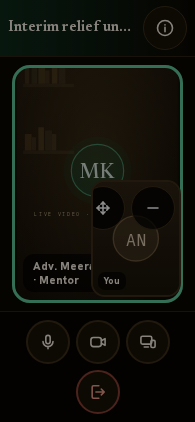
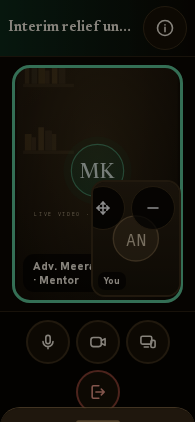
SAATHI-129: fix dark-theme destructive-button contrast in the C2 live-room reference
Stage-4 accessibility closure reproduced one real WCAG 2.1 AA 1.4.3 failure,
confirmed independently by axe-core 4.12.1 (rule color-contrast, impact
serious, 1 node `.terra`, state s35-leave-confirm, dark theme):

  .btn.terra hard-coded `color:#fff`. In dark theme `--terra` is the light
  tint #f2986a, so the "Leave the session" confirm button rendered
  #ffffff on #f2986a = 2.22:1 against a 4.5:1 requirement (14px/800 = normal text).

Fix mirrors the already-approved `--jade` / `--jade-ink` pattern:
  * tokens.css  — add `--terra-ink`: #fff (light, unchanged rendering) and
                  #211609 (dark; an existing approved palette value, the light
                  theme's `--ink`).
  * reference.css — `.btn.terra` now uses `color:var(--terra-ink)`.

Result: light 6.13:1 (AA, unchanged), dark 8.01:1 (AAA). Zero WCAG axe
violations remain across 10 live-room states x 2 themes.

Revalidated after the fix, all from a clean detached worktree:
  * 1,968-row package regression: 1968/1968 PASS; MEASURED_GEOMETRY_RESULTS.json
    regenerates BYTE-IDENTICAL to the previous commit (no geometry change).
  * S-35 addendum: 12/12 pairs x 12 assertions, 72/72 adverse-state rows.
  * 81-case negative matrix: 81/81 PASS (artifacts byte-identical).
  * 82-state set equality: 18/18 PASS.
  * Zero console errors/warnings, page errors, failed requests, storage writes, cookies.
  * Frontend typecheck / lint / vitest (432 passed, 1 skipped) / build: RC 0.
[…]

Changed region(s): [[0.0, 0.955, 1.0, 1.0]]

diff --git a/docs/design/tutoring/option_c2_reference_v1/reference/tokens.css b/docs/design/tutoring/option_c2_reference_v1/reference/tokens.css
@@ -12,7 +12,7 @@
   --bg:#fbf7f0;--card:#fff;--soft:#f4ece0;--ink:#211609;--ink2:#4d4234;--mut:#6f6248;
   --line:#ead9c2;--line2:#d3bd9e;
   --jade:#0f6b47;--jade-ink:#fff;--jadeq:#e3f1e9;
-  --terra:#a8410c;--terraq:#fdeadd;
+  --terra:#a8410c;--terra-ink:#fff;--terraq:#fdeadd;
   --indigo:#3f4796;--indigoq:#eceefb;
   --gold:#8a6108;--goldq:#faf0d6;
   --risk:#98281d;--riskq:#fae9e5;
@@ -24,7 +24,7 @@
   --bg:#140e06;--card:#1f170d;--soft:#291f12;--ink:#f7f0e2;--ink2:#dbcdb7;--mut:#ad9d81;
   --line:#3a2d1b;--line2:#50402a;
   --jade:#5fcb9c;--jade-ink:#06180f;--jadeq:#162d20;
-  --terra:#f2986a;--terraq:#37200f;
+  --terra:#f2986a;--terra-ink:#211609;--terraq:#37200f;
   --indigo:#a4abf5;--indigoq:#23264a;
   --gold:#e6bf6a;--goldq:#332612;
   --risk:#ef9c8b;--riskq:#361d17;

diff --git a/docs/design/tutoring/option_c2_reference_v1/reference/reference.css b/docs/design/tutoring/option_c2_reference_v1/reference/reference.css
@@ -73,7 +73,7 @@ h1.m,h2.m,h3.m,p.m,.banner .bt,.banner .bd2,.chip,.steps h4,.steps p,.edu p,.mut
   border:2px solid var(--line2);background:var(--card);color:var(--ink);
   font-size:14px;font-weight:800;border-radius:var(--r-pill);cursor:pointer;text-decoration:none;text-align:center}
 .btn.jade{background:var(--jade);border-color:var(--jade);color:var(--jade-ink)}
-.btn.terra{background:var(--terra);border-color:var(--terra);color:#fff}
+.btn.terra{background:var(--terra);border-color:var(--terra);color:var(--terra-ink)}
 .btn.block{width:100%}
 .btn[disabled],.btn[aria-disabled=true]{opacity:.55;cursor:not-allowed}
 .ib{min-width:var(--target-min);min-height:var(--target-min);border:2px solid var(--line2);border-radius:50%;
